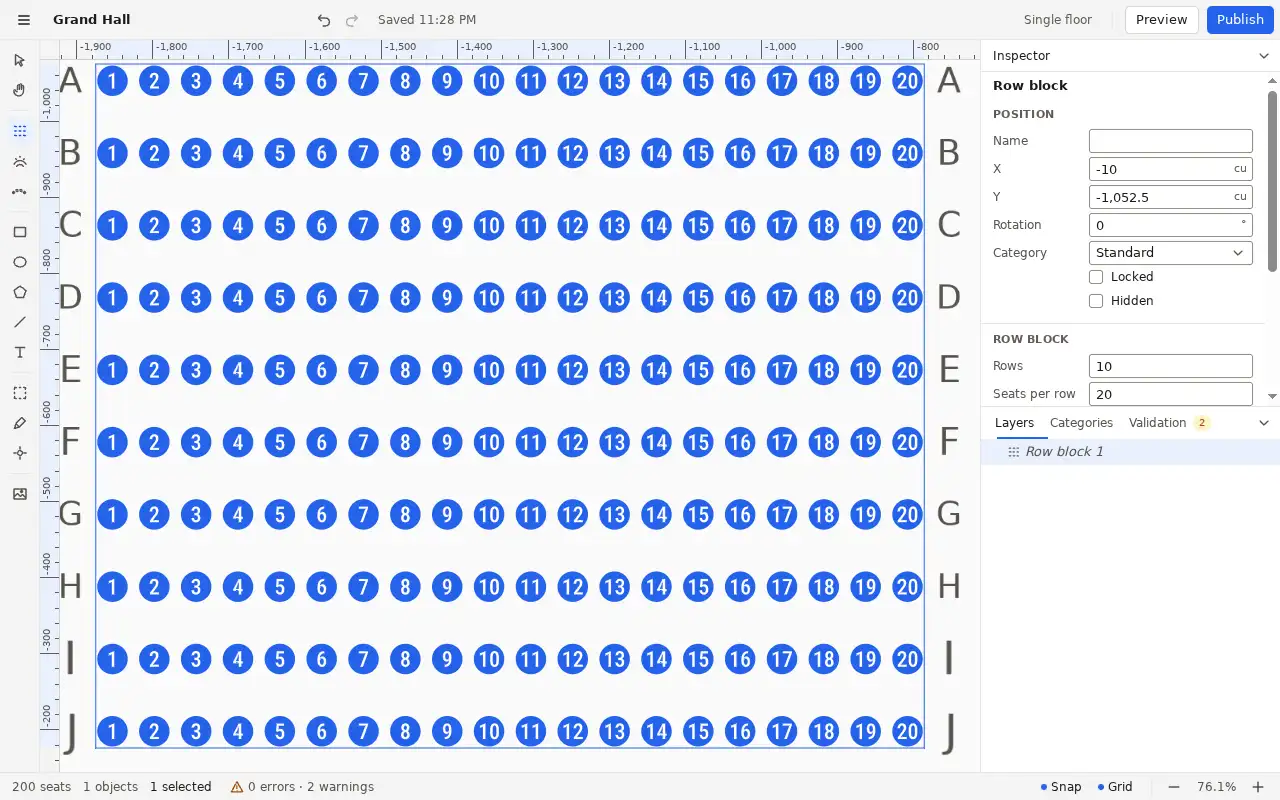
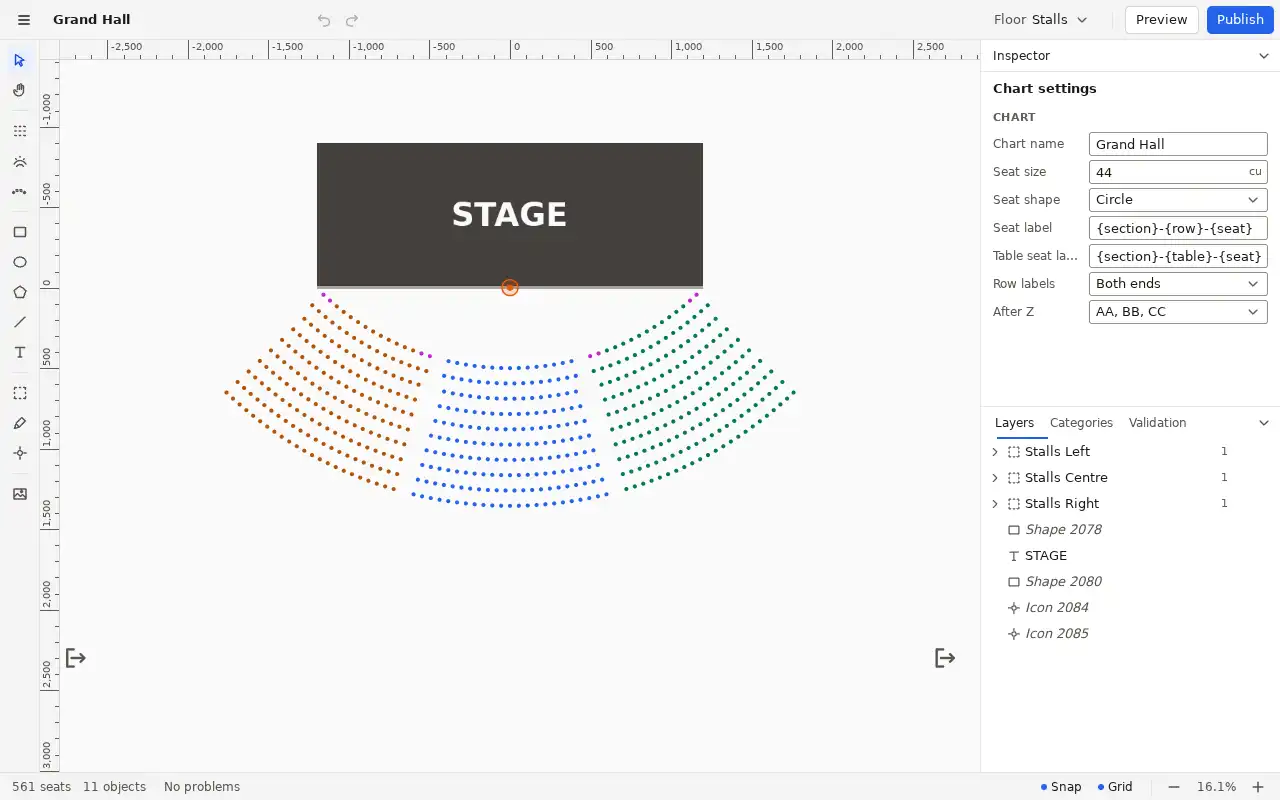
The quick start starts from the theatre template instead of drawing a block

diff --git a/apps/docs/quickstart/check.ts b/apps/docs/quickstart/check.ts
@@ -20,7 +20,8 @@
 // replaced with the key; the API path's secret key comes from the console's
 // API rather than its screen. Everything started is removed at the end.
 //
-// `--path console` (the page's steps 3 to 6 in the console), `api` (the
+// `--path console` (the page's steps 3 to 6 in the console: the theatre
+// template, published in the designer), `api` (the
 // "Prefer the API?" block instead), or `both` (default: one after the other,
 // each on its own server). `--screenshots` retakes the page's screenshots
 // (light theme, WebP) into `static/images/` during the console path.
@@ -280,51 +281,49 @@ async function owner(r: Run, link: string): Promise<Tab> {
 
 const DIALOG = "dialog|alertdialog";
 
+/** A native select's option by its text, chosen as a person's choice would be, with its events. */
+async function choose(t: Tab, select: number, choice: string): Promise<void> {
+  await t.call(
+    select,
+    `function () {
+      const o = [...this.options].find((o) => o.text === ${JSON.stringify(choice)});
+      if (!o) throw new Error(${JSON.stringify(`no option ${choice}`)});
+      this.value = o.value;
+      this.dispatchEvent(new Event("input", { bubbles: true }));
+      this.dispatchEvent(new Event("change", { bubbles: true }));
+    }`,
+  );
+}
+
 /** Steps 3 to 6 in the console, as the page says them. */
 async function consoleSteps(r: Run, t: Tab): Promise<void> {
-  // 3. Draw a chart.
+  // 3. Create a chart from the theatre template.
   await t.click({ role: "button", name: msg("charts.new"), nth: 0 });
   const form = await t.find({ role: DIALOG, name: msg("charts.newTitle") });
   await t.enter({ role: "textbox", name: msg("charts.name") }, "Grand Hall", form);
   const chartKey = await t.value(await t.find({ role: "textbox", name: msg("charts.key") }, form));
   check(chartKey === "grand-hall", `the chart's key fills in as grand-hall, not ${chartKey}`);
+  const theatre = msg("charts.startTemplate", { template: msg("template.theatre"), seats: "561" });
+  await choose(t, await t.find({ role: "combobox", name: msg("charts.start") }, form), theatre);
   await t.click({ role: "button", name: msg("charts.create") }, form);
   await t.gone({ role: DIALOG });
+
+  // 4. Open it in the designer and publish.
   await t.click({ role: "link", name: "Grand Hall" });
   await t.click({ role: "link", name: msg("charts.open") });
-  const canvas = await t.find(
+  await t.find(
     { role: "application", name: msg("canvas.label", { name: "Grand Hall" }) },
     undefined,
     30_000,
   );
   await t.click({ role: "button", name: msg("tour.skip") });
-  // The empty chart's starting points, which the page names, put away by the tool.
-  await t.find({ role: "region", name: msg("start.title") });
-  await t.click({ role: "button", name: msg("tool.rowBlock") });
-  await t.gone({ role: "region", name: msg("start.title") });
-  const [left, top, width, height] = await t.box(canvas);
-  await t.drag(
-    [left + width * 0.3, top + height * 0.35],
-    [left + width * 0.7, top + height * 0.6],
-    12,
-  );
-  const inspector = await t.find({ role: "region", name: msg("panel.inspector") });
-  await t.enter({ role: "textbox", name: msg("field.rows") }, "10", inspector);
-  await t.key("Enter");
-  await t.enter({ role: "textbox", name: msg("field.seats") }, "20", inspector);
-  await t.key("Enter");
   const bar = await t.find({ role: "contentinfo" });
-  await until("the status bar to read 200 seats", async () =>
-    (await t.text(bar)).includes(msg("status.seats", { n: "200" })),
+  await until("the status bar to read 561 seats", async () =>
+    (await t.text(bar)).includes(msg("status.seats", { n: "561" })),
   );
   const banner = await t.find({ role: "banner" });
-  await until(
-    "the top bar to say Saved",
-    async () => (await t.text(banner)).includes(msg("save.saved")),
-    30_000,
-  );
   if (screenshots) {
-    // The page's picture: no notice left over from creating the chart, the block filling the view.
+    // The page's picture: no notice left over from opening the chart, the theatre filling the view.
     for (const n of await t.all({ role: "button", name: msg("action.close") })) {
       await t.clickAt(...(await t.centre(n.id)));
     }
@@ -333,11 +332,10 @@ async function consoleSteps(r: Run, t: Tab): Promise<void> {
   }
   await shoot(t, "designer");
 
-  // 4. Publish.
   await t.click({ role: "button", name: msg("topbar.publish") }, banner);
   const dialog = await t.find({ role: DIALOG, name: msg("publish.title", { name: "Grand Hall" }) });
   await t.click({ role: "button", name: msg("publish.action") }, dialog);
-  const done = msg("publish.done", { version: 1, seats: "200" });
+  const done = msg("publish.done", { version: 1, seats: "561" });
   await until(
     `the dialog to say “${done}”`,
     async () => (await t.text(dialog)).includes(done),
@@ -359,18 +357,7 @@ async function consoleSteps(r: Run, t: Tab): Promise<void> {
   );
   check(eventKey === "opening-night", `the event's key fills in as opening-night, not ${eventKey}`);
   const select = await t.find({ role: "combobox", name: msg("events.chart") }, eventForm);
-  const choice = "Grand Hall (grand-hall)";
-  // A native select: chosen as a person's choice would be, with its events.
-  await t.call(
-    select,
-    `function () {
-      const o = [...this.options].find((o) => o.text === ${JSON.stringify(choice)});
-      if (!o) throw new Error("no option ${choice}");
-      this.value = o.value;
-      this.dispatchEvent(new Event("input", { bubbles: true }));
-      this.dispatchEvent(new Event("change", { bubbles: true }));
-    }`,
-  );
+  await choose(t, select, "Grand Hall (grand-hall)");
   await until(
     "version 1 to be the chosen chart version",
     async () =>
@@ -430,27 +417,44 @@ async function holdASeat(r: Run, staff: Tab | null): Promise<string> {
   const text = () => buyer.evaluate<string>("document.getElementById('selection').textContent");
   await until("the map to draw", async () => (await text()) === "Click a seat to hold it.", 30_000);
   await Bun.sleep(1000);
-  // A seat under the pointer: points near the map's centre, a double tap's
-  // window apart so that no two clicks make a zoom.
+  // "Zoom in with the + button": twice, about the map's centre, which is in
+  // the theatre's centre section.
+  for (let i = 0; i < 2; i++) {
+    await buyer.click({ role: "button", name: "Zoom in" });
+    await Bun.sleep(600);
+  }
+  // A seat under the pointer, found as a person finds one: the pointer
+  // moves near the map's centre until the tooltip names a seat, and clicks
+  // there (moving does not click, so no two clicks make a zoom).
   const [left, top, width, height] = await buyer.box(map);
-  let held = "";
-  let at: [number, number] = [0, 0];
-  search: for (let ring = 0; ring < 6; ring++) {
+  const tooltip = `(() => {
+    const t = document.getElementById("map").shadowRoot.querySelector('[part="tooltip"]');
+    return t !== null && !t.hidden;
+  })()`;
+  let at: [number, number] | undefined;
+  search: for (let ring = 0; ring < 8; ring++) {
     for (let dx = -ring; dx <= ring; dx++) {
       for (let dy = -ring; dy <= ring; dy++) {
         if (Math.max(Math.abs(dx), Math.abs(dy)) !== ring) continue;
-        at = [left + width / 2 + dx * 7, top + height * 0.4 + dy * 7];
-        await buyer.clickAt(...at);
-        await Bun.sleep(400);
-        const now = await text();
-        if (now.startsWith("Held for you: ")) {
-          held = now.slice("Held for you: ".length);
+        const point: [number, number] = [left + width / 2 + dx * 6, top + height / 2 + dy * 6];
+        await buyer.mouse("mouseMoved", ...point);
+        await Bun.sleep(50);
+        if (await buyer.evaluate<boolean>(tooltip)) {
+          at = point;
           break search;
         }
       }
     }
   }
+  check(at !== undefined, "the pointer near the map's centre is over a seat");
+  await buyer.clickAt(...at);
+  await until("the line under the map to name a held seat", async () =>
+    (await text()).startsWith("Held for you: "),
+  );
+  const held = (await text()).slice("Held for you: ".length);
   check(held !== "", "a click near the map's centre held a seat");
+  // Both paths make the theatre: section, row and seat, as the page says.
+  check(/^Stalls (Left|Centre|Right)-[A-Z]-\d+$/.test(held), `a theatre seat's label, not ${held}`);
   await until(
     `${held} to be held on the server`,
     async () => (await seatStatus(r, held)) === "held",
@@ -473,6 +477,8 @@ async function holdASeat(r: Run, staff: Tab | null): Promise<string> {
   }
 
   // "It changes back if you click it again in the first window, which releases it."
+  // A double tap's window after the first click, so the two are not a zoom.
+  await Bun.sleep(500);
   await buyer.clickAt(...at);
   await until(
     "the page to say no seat is held",

diff --git a/apps/docs/content/quick-start.md b/apps/docs/content/quick-start.md
@@ -1,6 +1,6 @@
 # Quick start
 
-At the end of this page you will have the Cavea server running on your own machine, a seat map you drew in its console, and a web page on which clicking a seat holds it for you on the server. It takes about ten minutes.
+At the end of this page you will have the Cavea server running on your own machine, a theatre's seat map made in its console from a template, and a web page on which clicking a seat holds it for you on the server. It takes about ten minutes.
 
 You need Docker with Docker Compose, a terminal and a web browser. Everything runs in containers, and the last step removes them.
 
@@ -96,7 +96,7 @@ On **Set up Cavea**, enter an email and a password of at least 15 characters, an
 <details class="more">
 <summary>Prefer the API? Steps 3 to 6 with curl instead</summary>
 
-Do this instead of steps 3 to 6, then go on with step 7. It uses a sample chart document, a theatre of 561 seats, in place of the chart you would draw.
+Do this instead of steps 3 to 6, then go on with step 7. It uses a sample chart document, the console's theatre template as a file, so it makes the same chart of 561 seats.
 
 1. In the console, open **Developers**, choose **New API key**, name it `Quick start backend`, choose **Secret key** and **Create key**. Copy the key it shows (it starts `sk_`) and keep it in your terminal:
 
@@ -133,22 +133,23 @@ The calls are in the [server API reference](api/index.md): [create a chart](api/
 
 </details>
 
-## 3. Draw a chart
+## 3. Create a chart
 
-A [chart](concepts/charts.md) is a venue's seat map. Draw a small one:
+A [chart](concepts/charts.md) is a venue's seat map. Start one from the theatre template:
 
-1. On **Charts**, choose **New chart**. Enter the name `Grand Hall`; its key fills in as `grand-hall`. Choose **Create chart**.
-2. Choose **Grand Hall** in the list, then **Open in designer**. The designer opens with a short tour: choose **Skip tour**, or follow it. Over the empty canvas, **Start your chart** offers templates (a theatre, an arena bowl, a banquet) and a reference image to trace; this guide draws a small chart by hand instead.
-3. Choose the **Row block** tool in the toolbar on the left (or press R), which puts the starting points away, and drag across the canvas. A block of rows appears where you drag.
-4. In the **Inspector** on the right, set **Rows** to `10` and **Seats per row** to `20`, pressing Enter after each. The status bar at the bottom reads **200 seats**.
-
-![The designer with a block of 10 rows of 20 seats, selected, and its fields in the inspector](images/designer.webp)
-
-The designer saves as you go: the top bar says **Saved** and the time.
+1. On **Charts**, choose **New chart**. Enter the name `Grand Hall`; its key fills in as `grand-hall`.
+2. For **Start from**, choose **Theatre template (561 seats)**, then **Create chart**. The chart appears in the list.
 
 ## 4. Publish the chart
 
-Events are sold from a published version of a chart, which never changes once stored. Choose **Publish** at the top right, then **Publish** in the dialog. It reports **Published version 1: 200 seats.** Choose **Close**.
+Events are sold from a published version of a chart, which never changes once stored. You publish in the designer, where the chart is drawn and edited.
+
+1. Choose **Grand Hall** in the list, then **Open in designer**. The designer opens with a short tour: choose **Skip tour**, or follow it. The canvas shows the theatre: three sections of stalls facing a stage, and the status bar at the bottom reads **561 seats**.
+2. Choose **Publish** at the top right, then **Publish** in the dialog. It reports **Published version 1: 561 seats.** Choose **Close**.
+
+![The designer showing the theatre template: three sections of curved rows facing the stage](images/designer.webp)
+
+The template is an ordinary chart: anything in it can be changed in the designer, which saves as you go, and published again as version 2. See [Drawing a seating chart](designer/index.md).
 
 ## 5. Create an event
 
@@ -203,18 +204,18 @@ The script tag loads the seat map, `{{renderer_package}}`, which sets `window.Ca
 
 ## 8. Hold a seat
 
-Open `http://localhost:8000`. The map shows the event's 200 seats in rows A to J (or the sample theatre's 561, if you used the API). Click a seat: it changes to a check mark, and the line under the map says which seat is held for you, such as `Held for you: D-10`.
+Open `http://localhost:8000`. The map shows the event's 561 seats in their three sections, facing the stage. Zoom in with the + button at the map's top right (or the mouse wheel) until the seats are easy to point at, and click one: it changes to a check mark, and the line under the map says which seat is held for you, such as `Held for you: Stalls Centre-C-108`.
 
-![The buyer's page: one seat near the middle is selected and held, and the line under the map says which](images/buyer-map.webp)
+![The buyer's page, zoomed in: seat 108 in row C of Stalls Centre is selected and held, and the line under the map says which](images/buyer-map.webp)
 
-The label is the seat's name in the chart: section, row and seat, joined by `-`. This chart has no sections, so the label is the row and the seat alone.
+The label is the seat's name in the chart: section, row and seat, joined by `-`. The tooltip shows the same three parts.
 
 The seat is now held on the server under a [hold token](concepts/holds.md) that the map created for this browser tab. To see what others see:
 
 - Open the same address in a private window: the seat is drawn unavailable there, and it changes back if you click it again in the first window, which releases it.
 - In the console, open **Events** and choose **Opening Night**: the event manager counts the seat as held.
 
-![The event manager: 0 booked, 1 held, 0 blocked, 199 free, with the held seat drawn unavailable](images/event-manager.webp)
+![The event manager: 0 booked, 1 held, 0 blocked, 560 free, with the held seat drawn unavailable](images/event-manager.webp)
 
 The hold lasts 15 minutes, the event's hold lifetime, and then the seat is free again. In a real sale your backend takes payment and then books what the hold token holds, with a secret key: see [Bookings](concepts/bookings.md).
 
